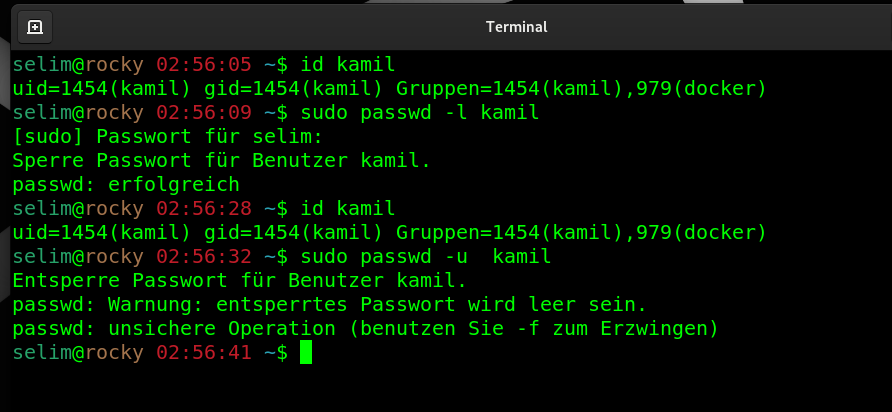
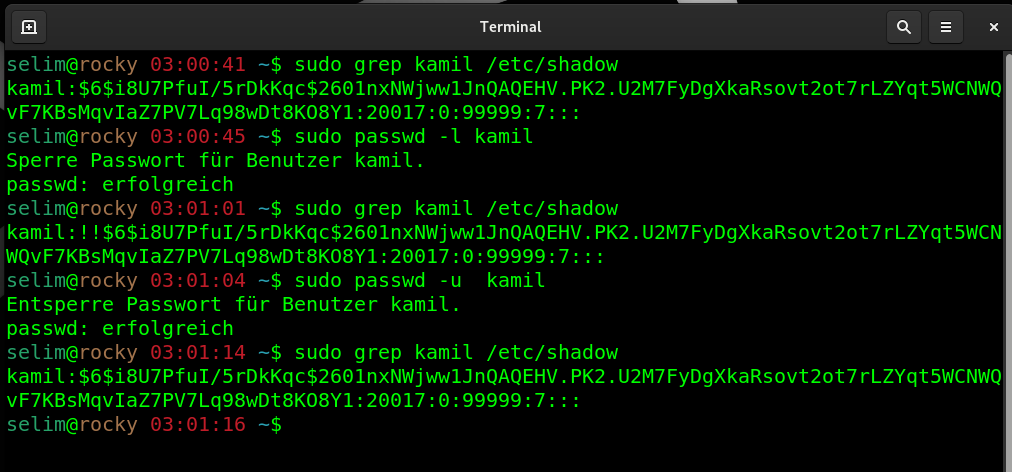
uodated

Changed region(s): [[0.0, 0.0, 1.0, 1.0], [0.6659, 0.0, 0.8475, 0.0291], [0.333, 0.0, 0.4238, 0.0291]]

diff --git a/8_user_issues.md b/8_user_issues.md
@@ -105,9 +105,13 @@ _ use  "passwd" command with " -l " or " -u " options._
 
 
 ````
+sudo grep kamil /etc/shadow
 passwd -l kamil
+sudo grep kamil /etc/shadow
 passwd -u kamil
+sudo grep kamil /etc/shadow
 ````
+_The !! mark emans "locked"_
 
 
 ![users8](images/users8.png)
